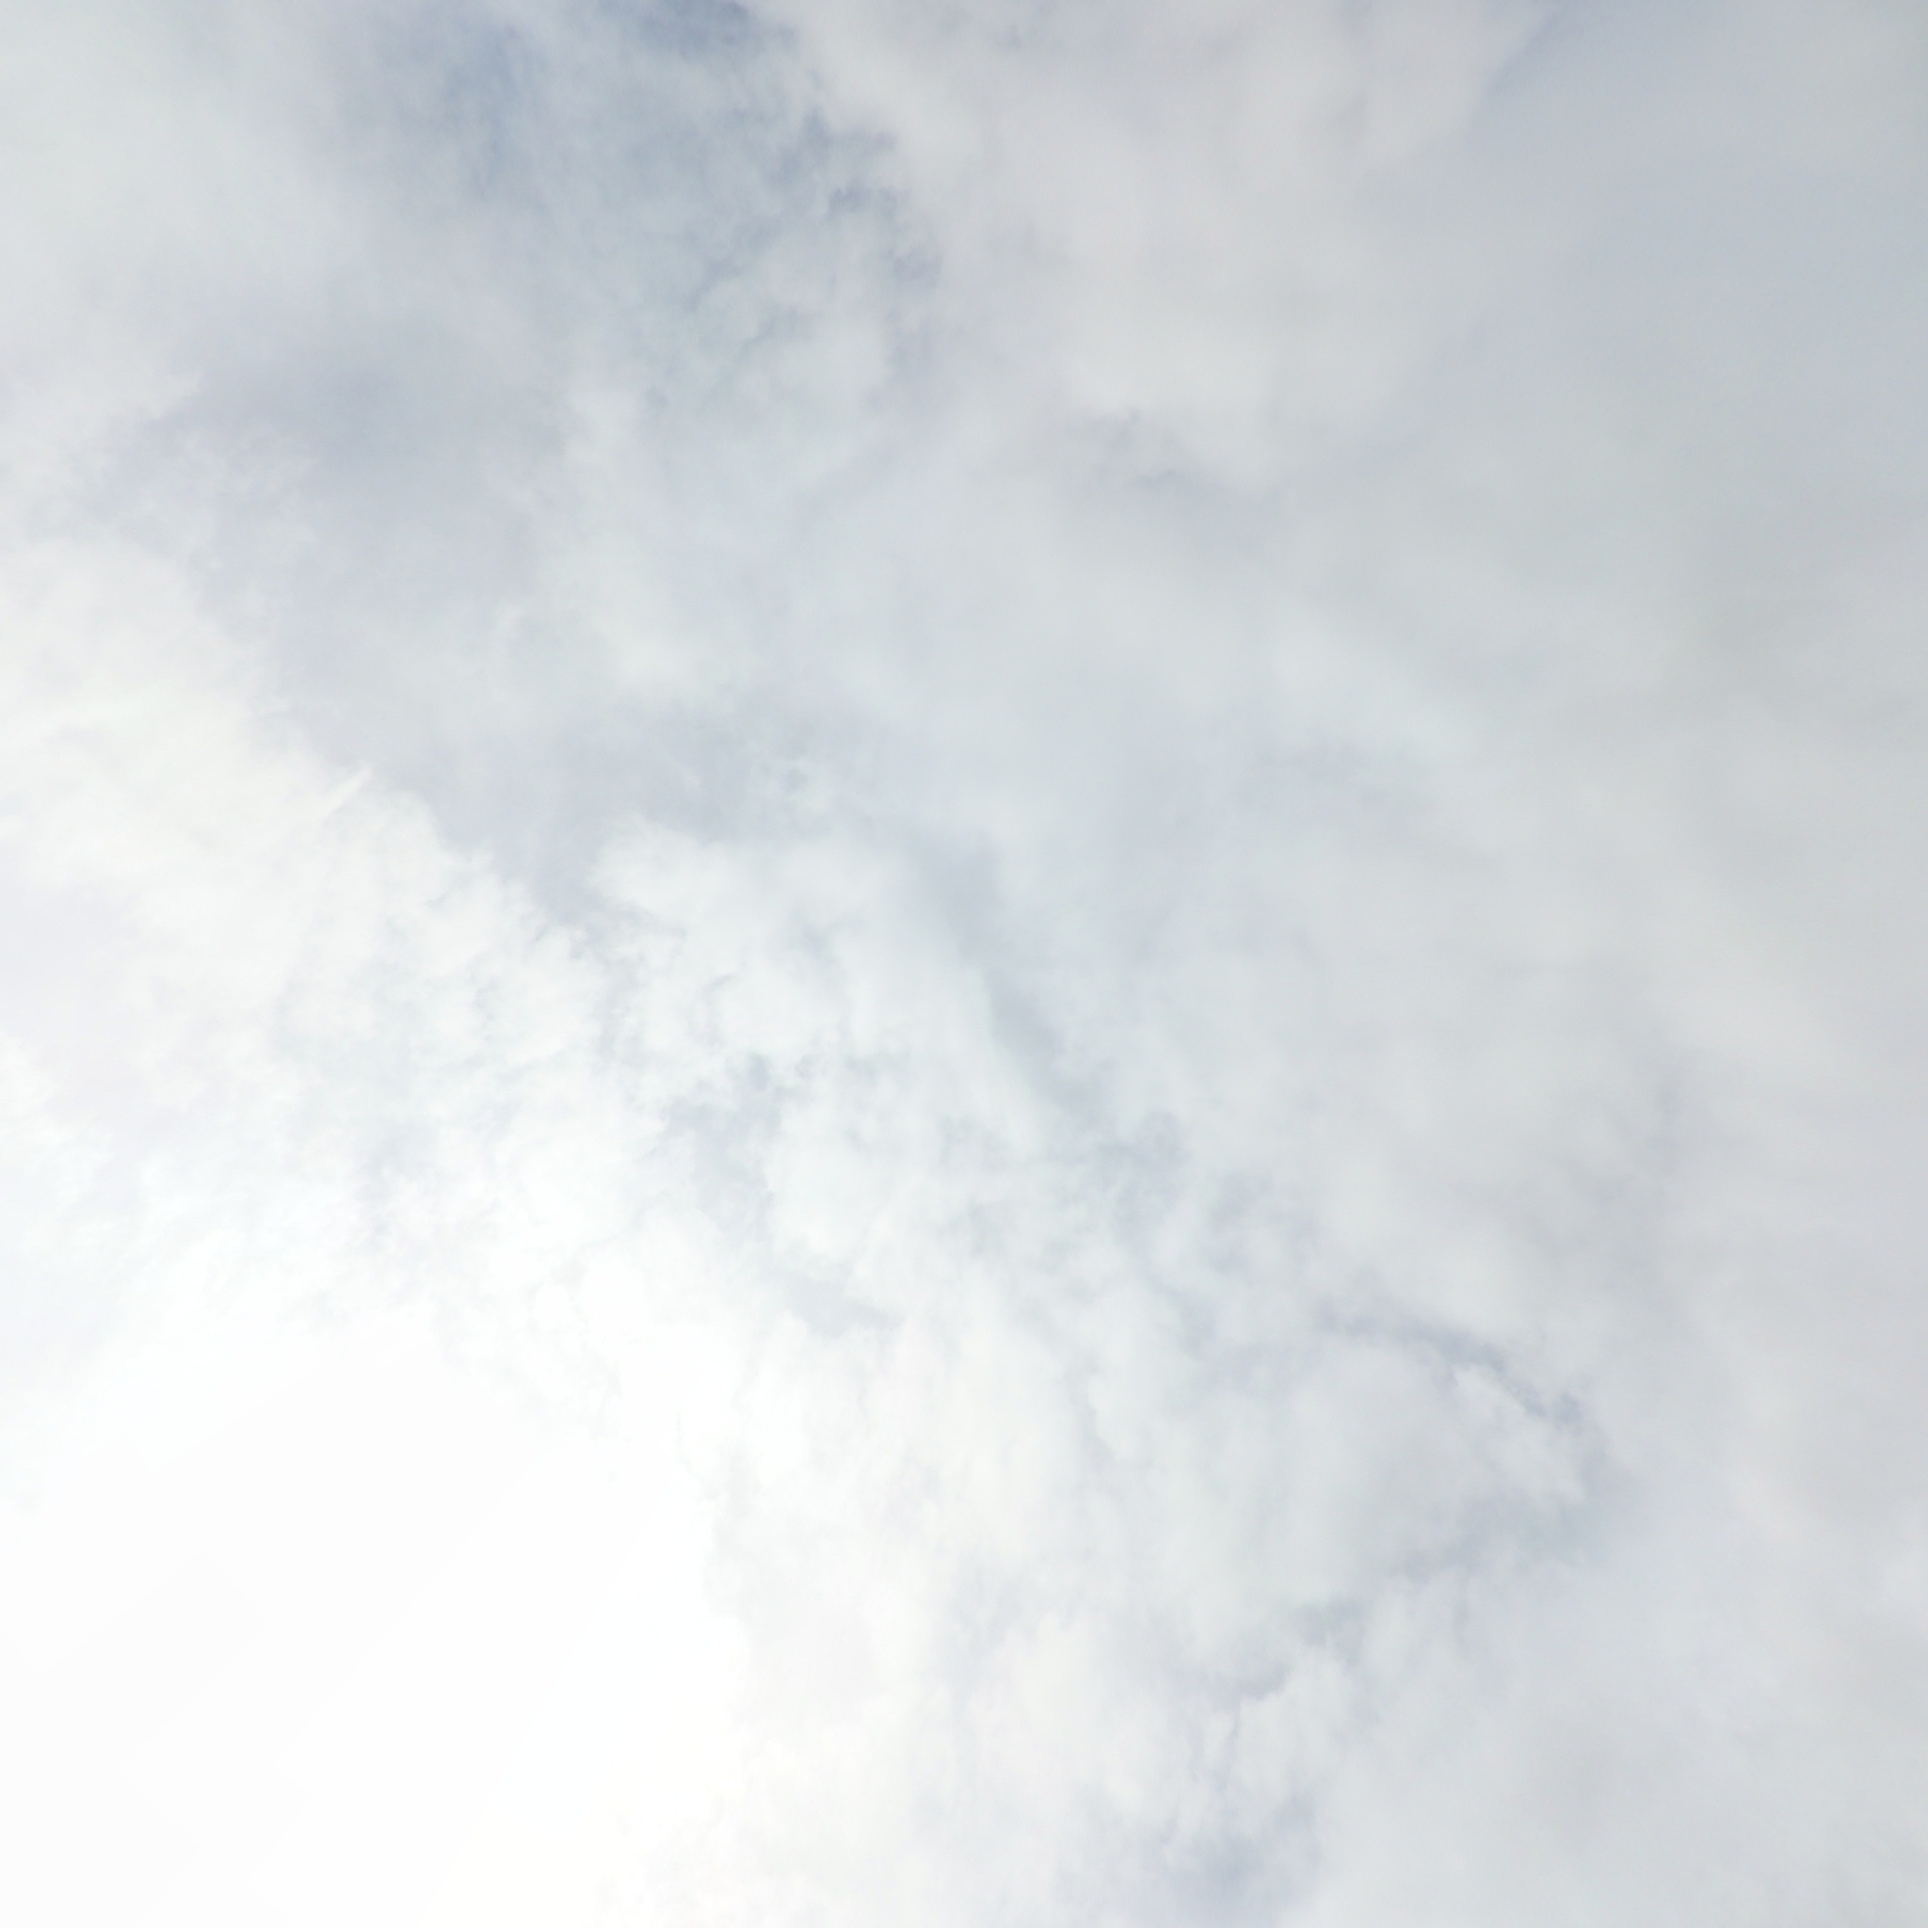
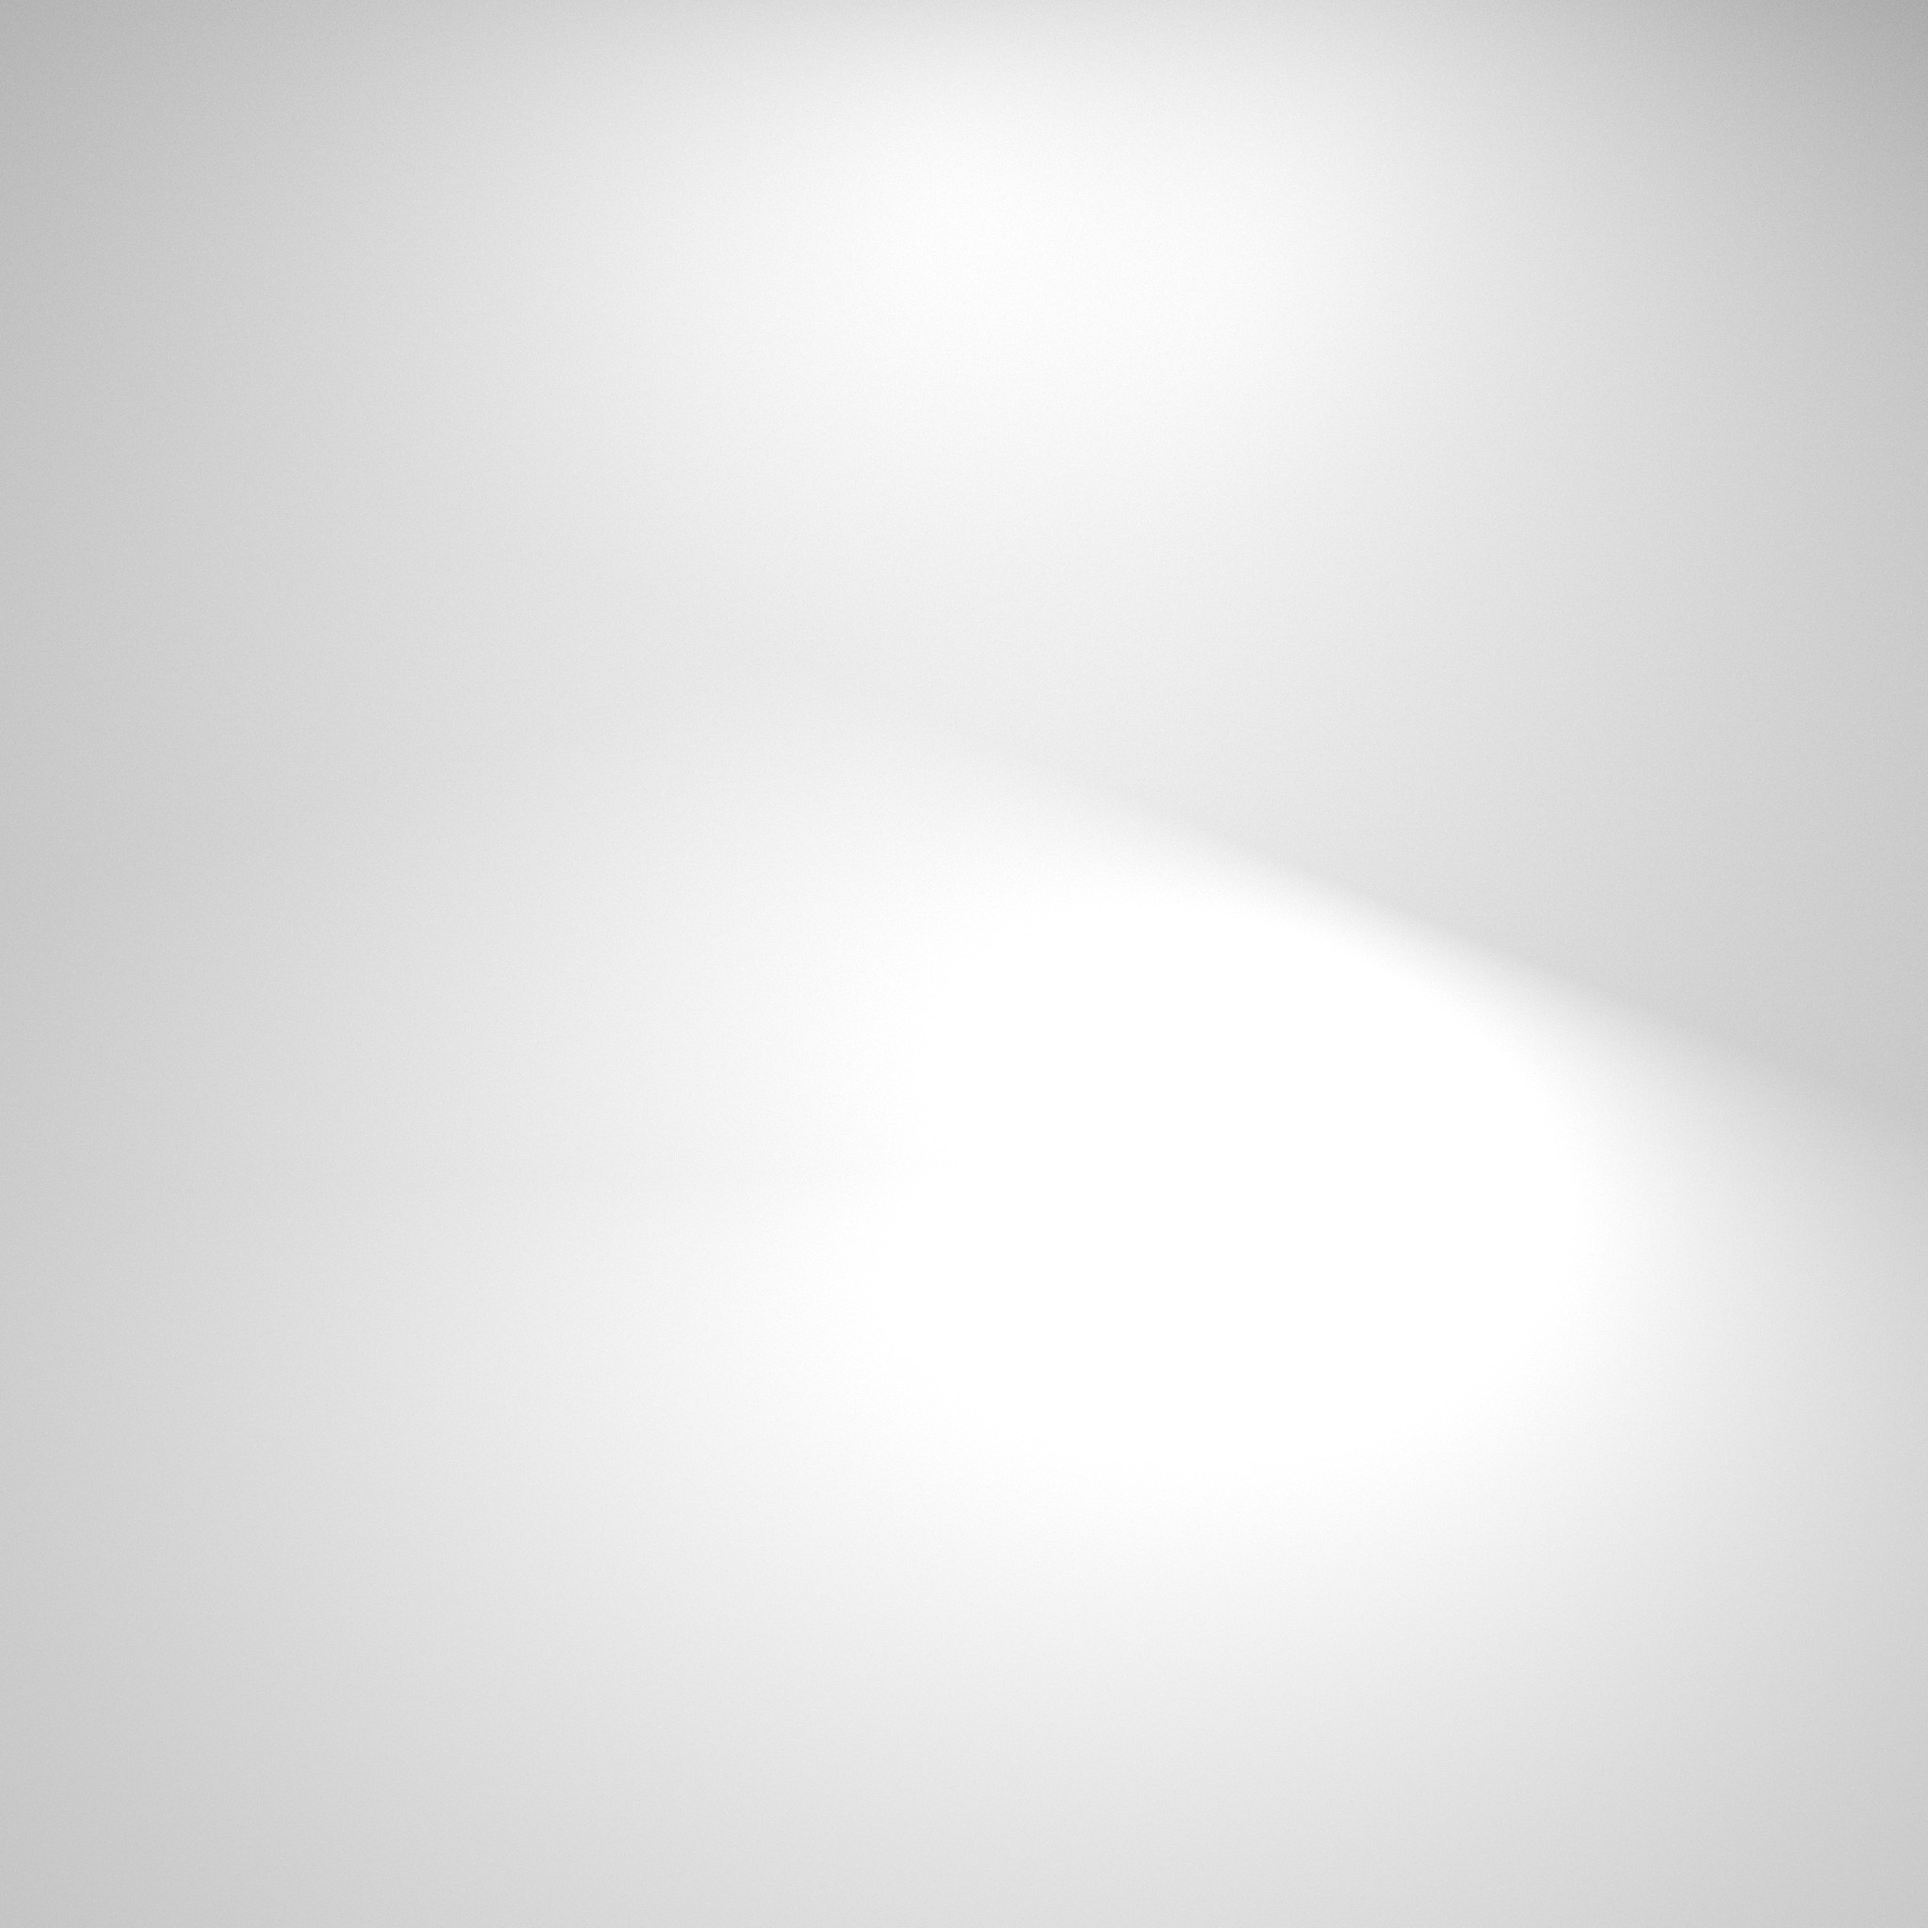
added a different cubemap and fixed render of it
weird enough all cubemaps (no matter what I did) had been mirrored, so I
flipped the axes either horizontal or vertical. Also the reflection was
wrong (the back was put on front). With a special blender cube map plugin (maybe
I will add it, because I only found a borked one) we can now render our
own cubemaps.

diff --git a/opengl/skybox.py b/opengl/skybox.py
@@ -58,6 +58,10 @@ class OpenGLSkyBox:
                 continue
             self.env.logLine(8, "Load: " + path)
             elem[0] = QImage(path)
+            if elem[1].endswith("y"):
+                elem[0].mirror(False, True)
+            else:
+                elem[0].mirror(True, False)
             self.texture.setData(0, 0, elem[2], QOpenGLTexture.RGBA, QOpenGLTexture.UInt8, elem[0].bits())
 
         self.texture.setMinMagFilters(QOpenGLTexture.Linear, QOpenGLTexture.Linear)
